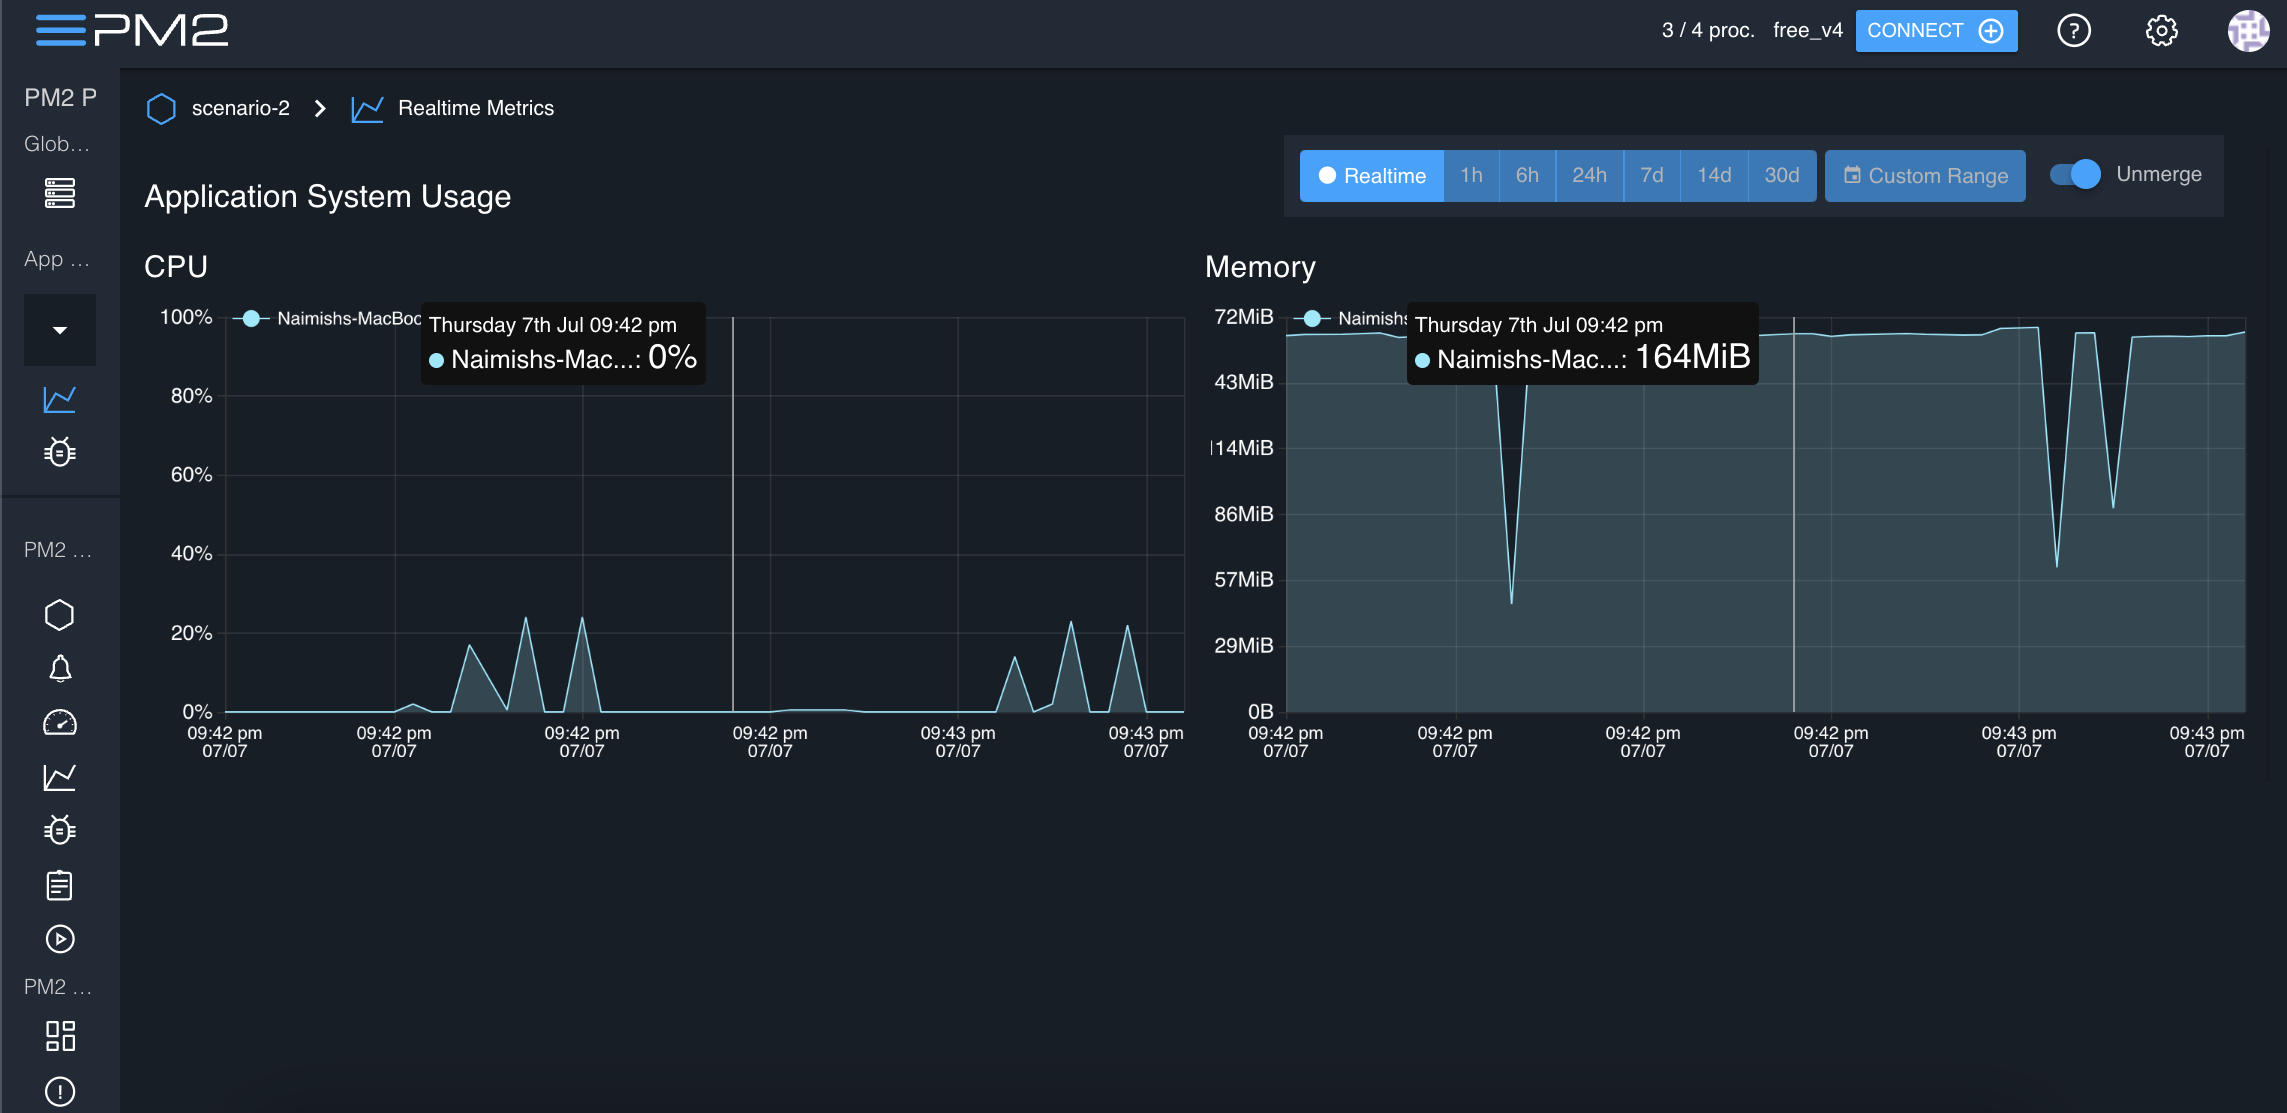
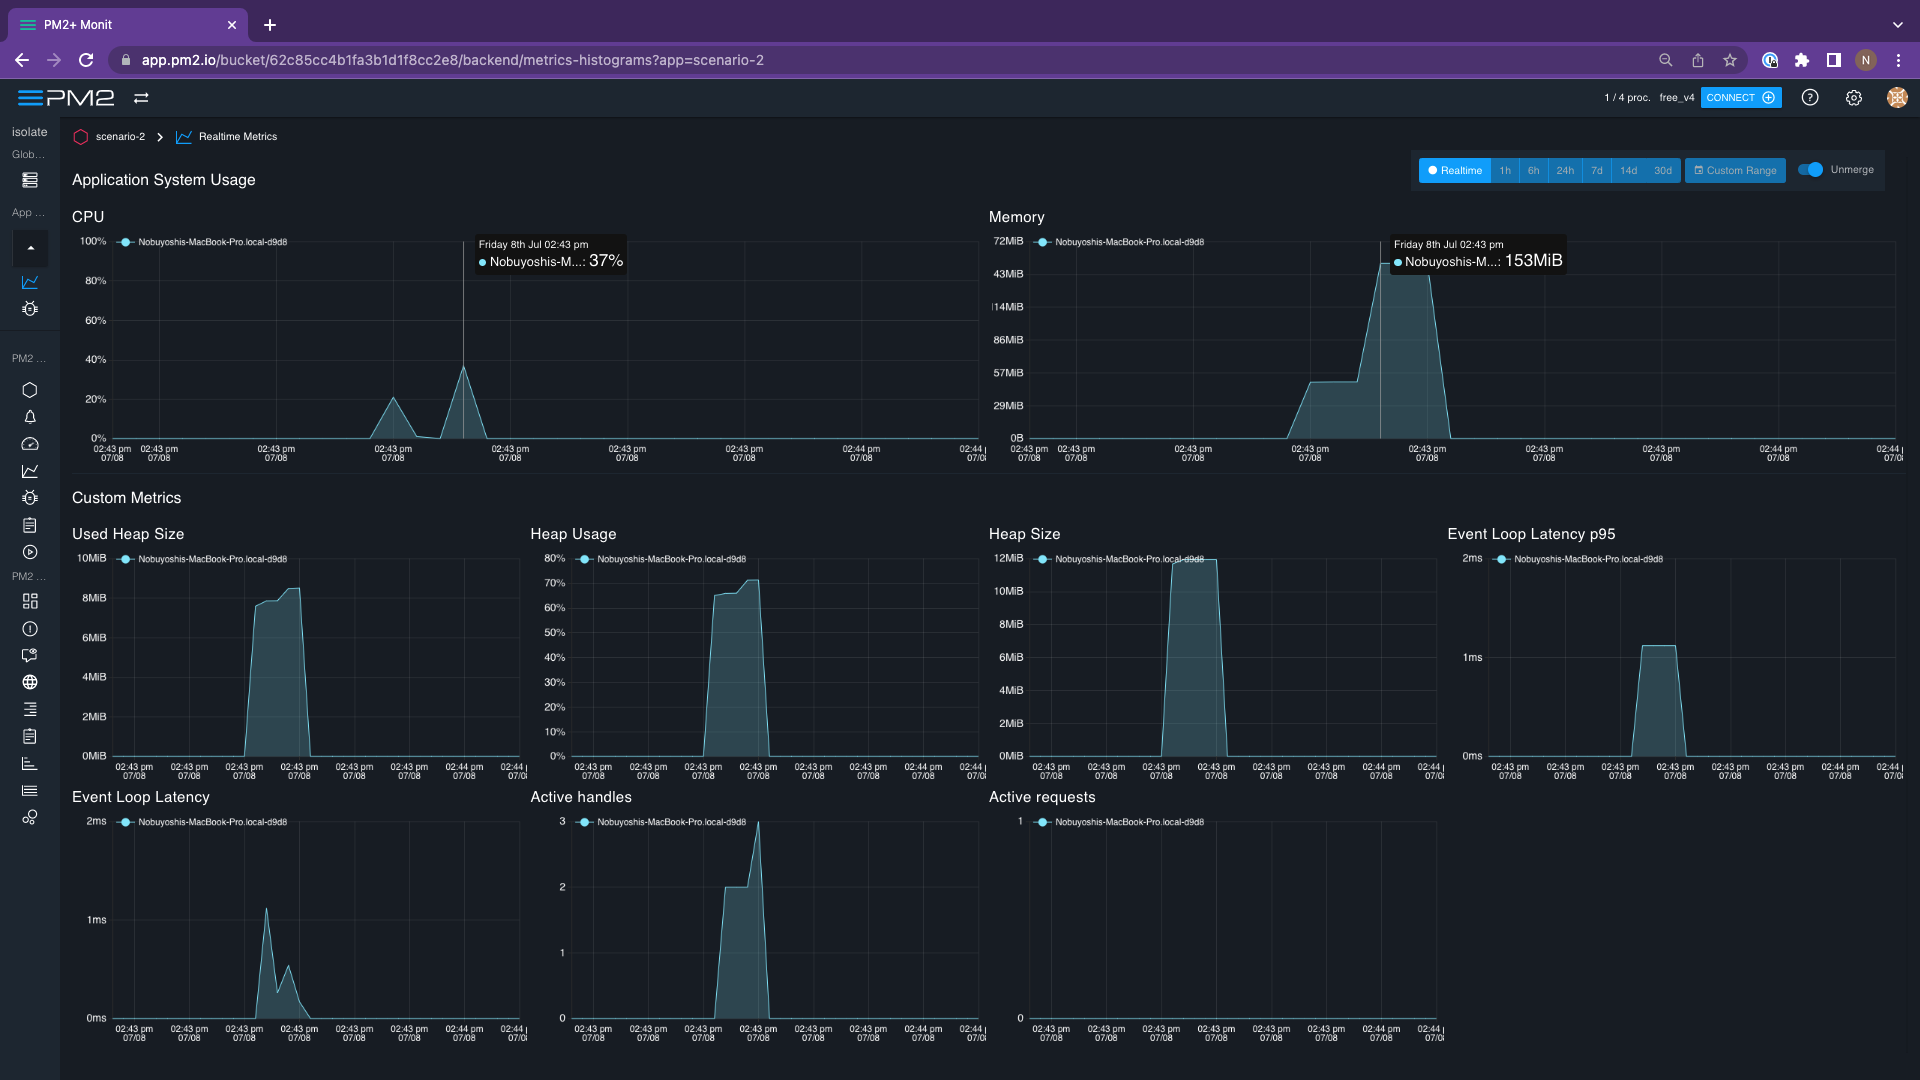
Add sleep() in scenarios 1,2,3 scripts. Update scenarios result and images in README.md. Update pm2 command in README.md.

diff --git a/scenario-2/index.js b/scenario-2/index.js
@@ -1,66 +1,13 @@
-// const readline = require("readline");
 const runIsolates = require("./main");
 
-// /*
-//  * This section is related to max memory consumption measurement.
-//  */
-// let maxMemoryConsumption = 0;
-// let timestamp;
-
-// /*
-//  * From Node.js:
-//  * "When we pass a function to `process.nextTick()`,
-//  * we instruct the engine to invoke this function at the end of
-//  * the current operation, before the next event loop tick starts"
-//  */
-// process.nextTick(() => {
-//   const memoryUsage = process.memoryUsage();
-
-//   /*
-//    * From Node.js (https://nodejs.org/api/process.html#processmemoryusage)
-//    * `rss`: Resident Set Size, is the amount of space occupied
-//    * in the main memory device (that is a subset of the total allocated memory)
-//    * for the process, including all C++ and JavaScript objects and code.
-//    */
-//   if (memoryUsage.rss > maxMemoryConsumption) {
-//     maxMemoryConsumption = memoryUsage.rss;
-//     timestamp = new Date();
-//   }
-// });
-
-// process.on("exit", () => {
-//   console.log(
-//     `Max memory consumption: ${maxMemoryConsumption} ` +
-//       `(${(maxMemoryConsumption / 1024 / 1024).toFixed(4)} MB) ` +
-//       `at ${timestamp}`
-//   );
-// });
-
-// /*
-//  * This function `askToProceed` holds the script execution
-//  * until the user inputs <Enter> key. With this behavior,
-//  * user could run this script with `--inspect` flag like:
-//  * `node --inspect scenario-2`
-//  * and then open `chrome://inspect` in the browser to
-//  * start recording CPU or memory usage before `runIsolates()`
-//  */
-// function askToProceed(query) {
-//   const rl = readline.createInterface({
-//     input: process.stdin,
-//     output: process.stdout,
-//   });
-
-//   return new Promise((resolve) =>
-//     rl.question(query, (ans) => {
-//       rl.close();
-//       resolve(ans);
-//     })
-//   );
-// }
+function sleep(ms) {
+  return new Promise((resolve) => {
+    setTimeout(resolve, ms);
+  });
+}
 
 (async function () {
-  // this line is commented out. We don't need it for `pm2`
-  // await askToProceed("Press <Enter> to continue");
+  await sleep(3000);
 
   runIsolates(); // Here we run our test scenario
 })();

diff --git a/scenario-3/index.js b/scenario-3/index.js
@@ -1,66 +1,13 @@
-// const readline = require("readline");
 const runIsolates = require("./main");
 
-// /*
-//  * This section is related to max memory consumption measurement.
-//  */
-// let maxMemoryConsumption = 0;
-// let timestamp;
-
-// /*
-//  * From Node.js:
-//  * "When we pass a function to `process.nextTick()`,
-//  * we instruct the engine to invoke this function at the end of
-//  * the current operation, before the next event loop tick starts"
-//  */
-// process.nextTick(() => {
-//   const memoryUsage = process.memoryUsage();
-
-//   /*
-//    * From Node.js (https://nodejs.org/api/process.html#processmemoryusage)
-//    * `rss`: Resident Set Size, is the amount of space occupied
-//    * in the main memory device (that is a subset of the total allocated memory)
-//    * for the process, including all C++ and JavaScript objects and code.
-//    */
-//   if (memoryUsage.rss > maxMemoryConsumption) {
-//     maxMemoryConsumption = memoryUsage.rss;
-//     timestamp = new Date();
-//   }
-// });
-
-// process.on("exit", () => {
-//   console.log(
-//     `Max memory consumption: ${maxMemoryConsumption} ` +
-//       `(${(maxMemoryConsumption / 1024 / 1024).toFixed(4)} MB) ` +
-//       `at ${timestamp}`
-//   );
-// });
-
-// /*
-//  * This function `askToProceed` holds the script execution
-//  * until the user inputs <Enter> key. With this behavior,
-//  * user could run this script with `--inspect` flag like:
-//  * `node --inspect scenario-3`
-//  * and then open `chrome://inspect` in the browser to
-//  * start recording CPU or memory usage before `runIsolates()`
-//  */
-// function askToProceed(query) {
-//   const rl = readline.createInterface({
-//     input: process.stdin,
-//     output: process.stdout,
-//   });
-
-//   return new Promise((resolve) =>
-//     rl.question(query, (ans) => {
-//       rl.close();
-//       resolve(ans);
-//     })
-//   );
-// }
+function sleep(ms) {
+  return new Promise((resolve) => {
+    setTimeout(resolve, ms);
+  });
+}
 
 (async function () {
-  // this line is commented out. We don't need it for `pm2`
-  // await askToProceed("Press <Enter> to continue");
+  await sleep(3000);
 
   runIsolates(); // Here we run our test scenario
 })();

diff --git a/utils/memory-Usage.js b/utils/memory-Usage.js
@@ -1,0 +1,37 @@
+/*
+ * This section is related to max memory consumption measurement.
+ * You set this callbacks before running your script.
+ */
+let maxMemoryConsumption = 0;
+let timestamp;
+
+/*
+ * From Node.js:
+ * "When we pass a function to `process.nextTick()`,
+ * we instruct the engine to invoke this function at the end of
+ * the current operation, before the next event loop tick starts"
+ */
+process.nextTick(() => {
+  const memoryUsage = process.memoryUsage();
+
+  /*
+   * From Node.js (https://nodejs.org/api/process.html#processmemoryusage)
+   * `rss`: Resident Set Size, is the amount of space occupied
+   * in the main memory device (that is a subset of the total allocated memory)
+   * for the process, including all C++ and JavaScript objects and code.
+   */
+  if (memoryUsage.rss > maxMemoryConsumption) {
+    maxMemoryConsumption = memoryUsage.rss;
+    timestamp = new Date();
+  }
+});
+
+process.on("exit", () => {
+  console.log(
+    `Max memory consumption: ${maxMemoryConsumption} ` +
+      `(${(maxMemoryConsumption / 1024 / 1024).toFixed(4)} MB) ` +
+      `at ${timestamp}`
+  );
+});
+
+// Run your script here

diff --git a/scenario-1/index.js b/scenario-1/index.js
@@ -1,29 +1,13 @@
-/*
- * `v8` is used to take the heap snapshot with `v8.getHeapSnapshot()`
- * `fs` and `path` is used to store the snapshot in a file.
- */
-const v8 = require("node:v8");
-const fs = require("fs");
-const path = require("path");
+const runIsolates = require("./main");
 
-/*
- * We will instantiate n = 100 isolates.
- */
-const ivm = require("isolated-vm");
-
-const n = 100; // 1000, 10000
-let isolates = [];
-
-for (let i = 0; i < n; i++) {
-  const isolate = new ivm.Isolate({ memoryLimit: 128 /* MB */ });
-  isolates.push(isolate);
+function sleep(ms) {
+  return new Promise((resolve) => {
+    setTimeout(resolve, ms);
+  });
 }
 
-/*
- * Here we take the heap snapshot and
- * then we stored it in a file.
- */
-const filename = "scenario-1.heapsnapshot";
-const stream = v8.getHeapSnapshot();
-const file = path.join(__dirname, filename);
-stream.pipe(fs.createWriteStream(file));
+(async function () {
+  await sleep(3000);
+
+  runIsolates(); // Here we run our test scenario
+})();

diff --git a/utils/simple-prompt.js b/utils/simple-prompt.js
@@ -1,0 +1,27 @@
+/*
+ * This function `askToProceed` holds the script execution
+ * until the user inputs <Enter> key. With this behavior,
+ * user could run this script with `--inspect` flag like:
+ * `node --inspect scenario-2`
+ * and then open `chrome://inspect` in the browser to
+ * start recording CPU or memory usage.
+ */
+function askToProceed(query) {
+  const rl = readline.createInterface({
+    input: process.stdin,
+    output: process.stdout,
+  });
+
+  return new Promise((resolve) =>
+    rl.question(query, (ans) => {
+      rl.close();
+      resolve(ans);
+    })
+  );
+}
+
+(async function () {
+  await askToProceed("Press <Enter> to continue");
+
+  // Run your script here
+})();

diff --git a/scenario-1/main.js b/scenario-1/main.js
@@ -1,0 +1,18 @@
+const ivm = require("isolated-vm");
+
+/*
+ * We will instantiate n = 100 isolates.
+ */
+function runIsolates() {
+  const n = 100;
+  let isolates = [];
+
+  for (let i = 0; i < n; i++) {
+    const isolate = new ivm.Isolate({ memoryLimit: 128 /* MB */ });
+    isolates.push(isolate);
+  }
+
+  process.exit(1);
+}
+
+module.exports = runIsolates;

diff --git a/README.md b/README.md
@@ -26,7 +26,7 @@ This repository contains scripts and additional notes related to the test scenar
 - Follow the steps mentioned under the "connect" tab up to step 2
 - Once you link to the `pm2` (step 2), run the following command in your terminal:  
   ```
-  pm2 start scenario-3
+  pm2 start scenario-3 --fresh --no-autorestart
   ```
   Instead of `scenario-3` you can use any other scenario
 - Now you can see the live monitoring for your script in `pm2` dashboard!
@@ -34,14 +34,15 @@ This repository contains scripts and additional notes related to the test scenar
 ## Test Results 
 
 ### Scenario 1
-Total memory used: 
+Total memory used by Node.js: **48 MB**
+![scenario-1](./images/scenario-1.png)
 
 ### Scenario 2  
-Total memory used: **164 MB**
+Total memory used: **153 MB**
 <br/>  
 ![scenario-2](./images/scenario-2.png)
 
 ### Scenario 3  
-Total memory used: **221 MB**  
+Total memory used: **196 MB**  
 </br>
 ![scenario-3](./images/scenario-3.png)
